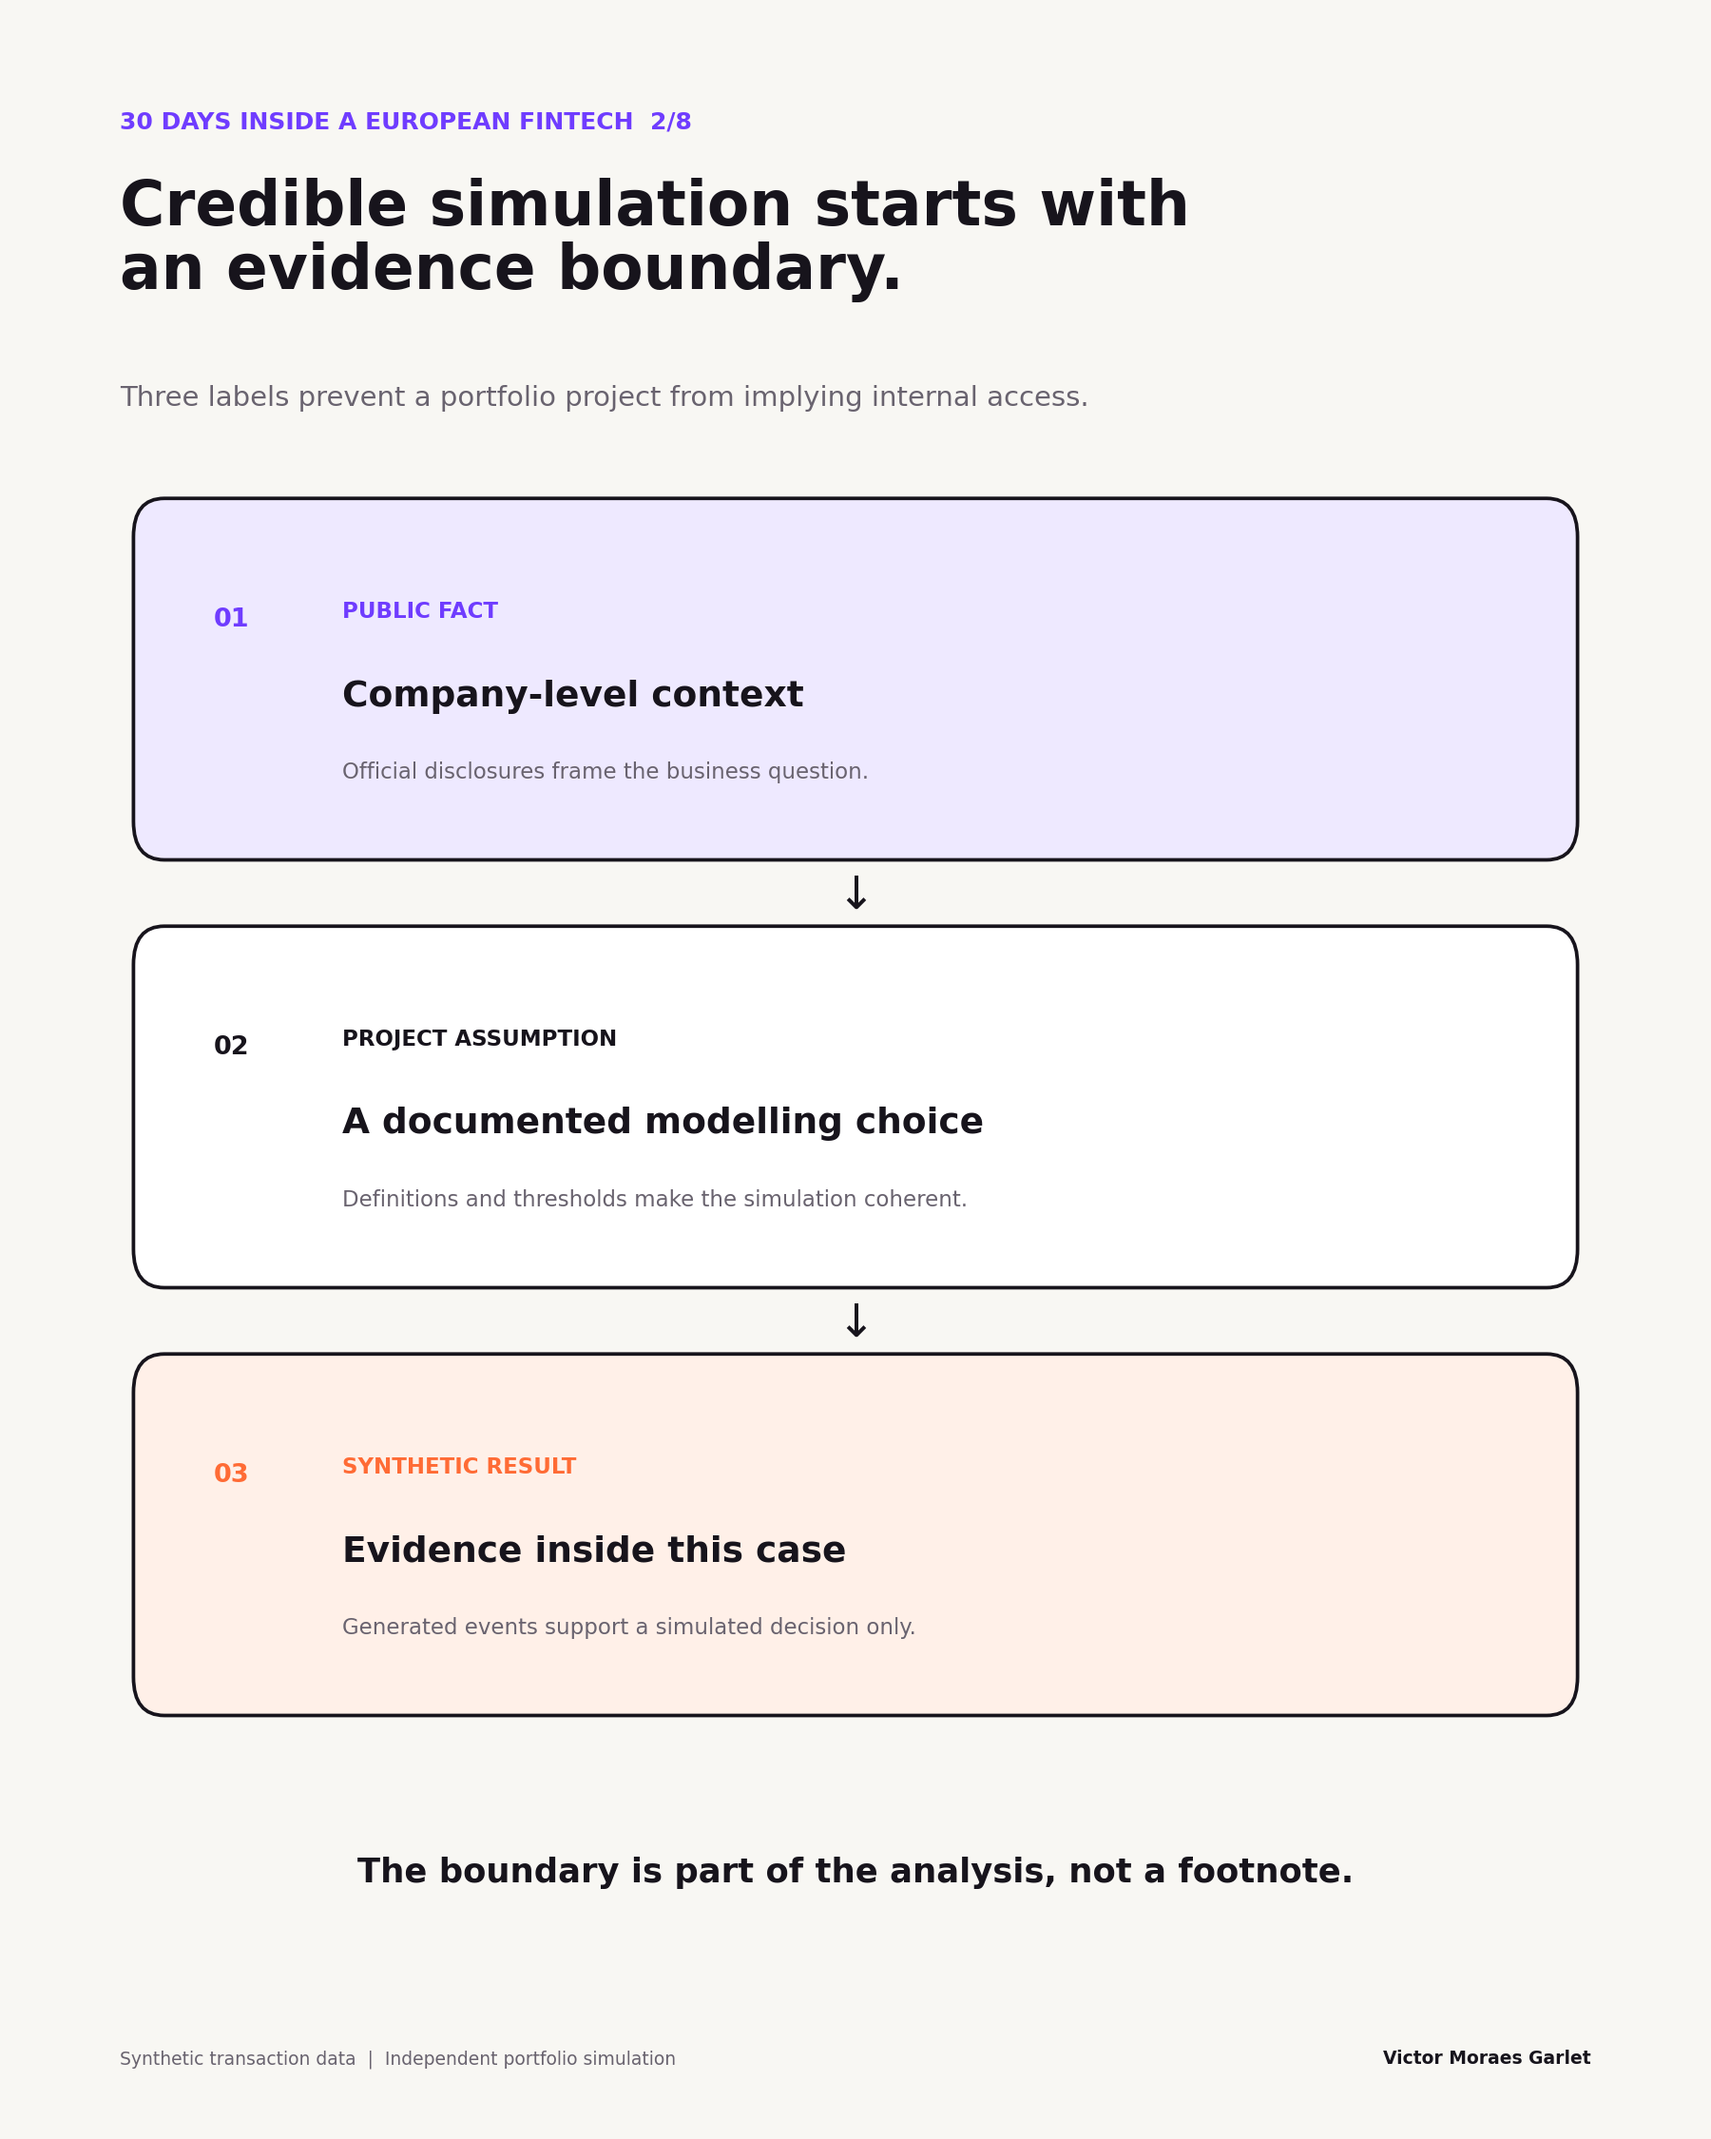
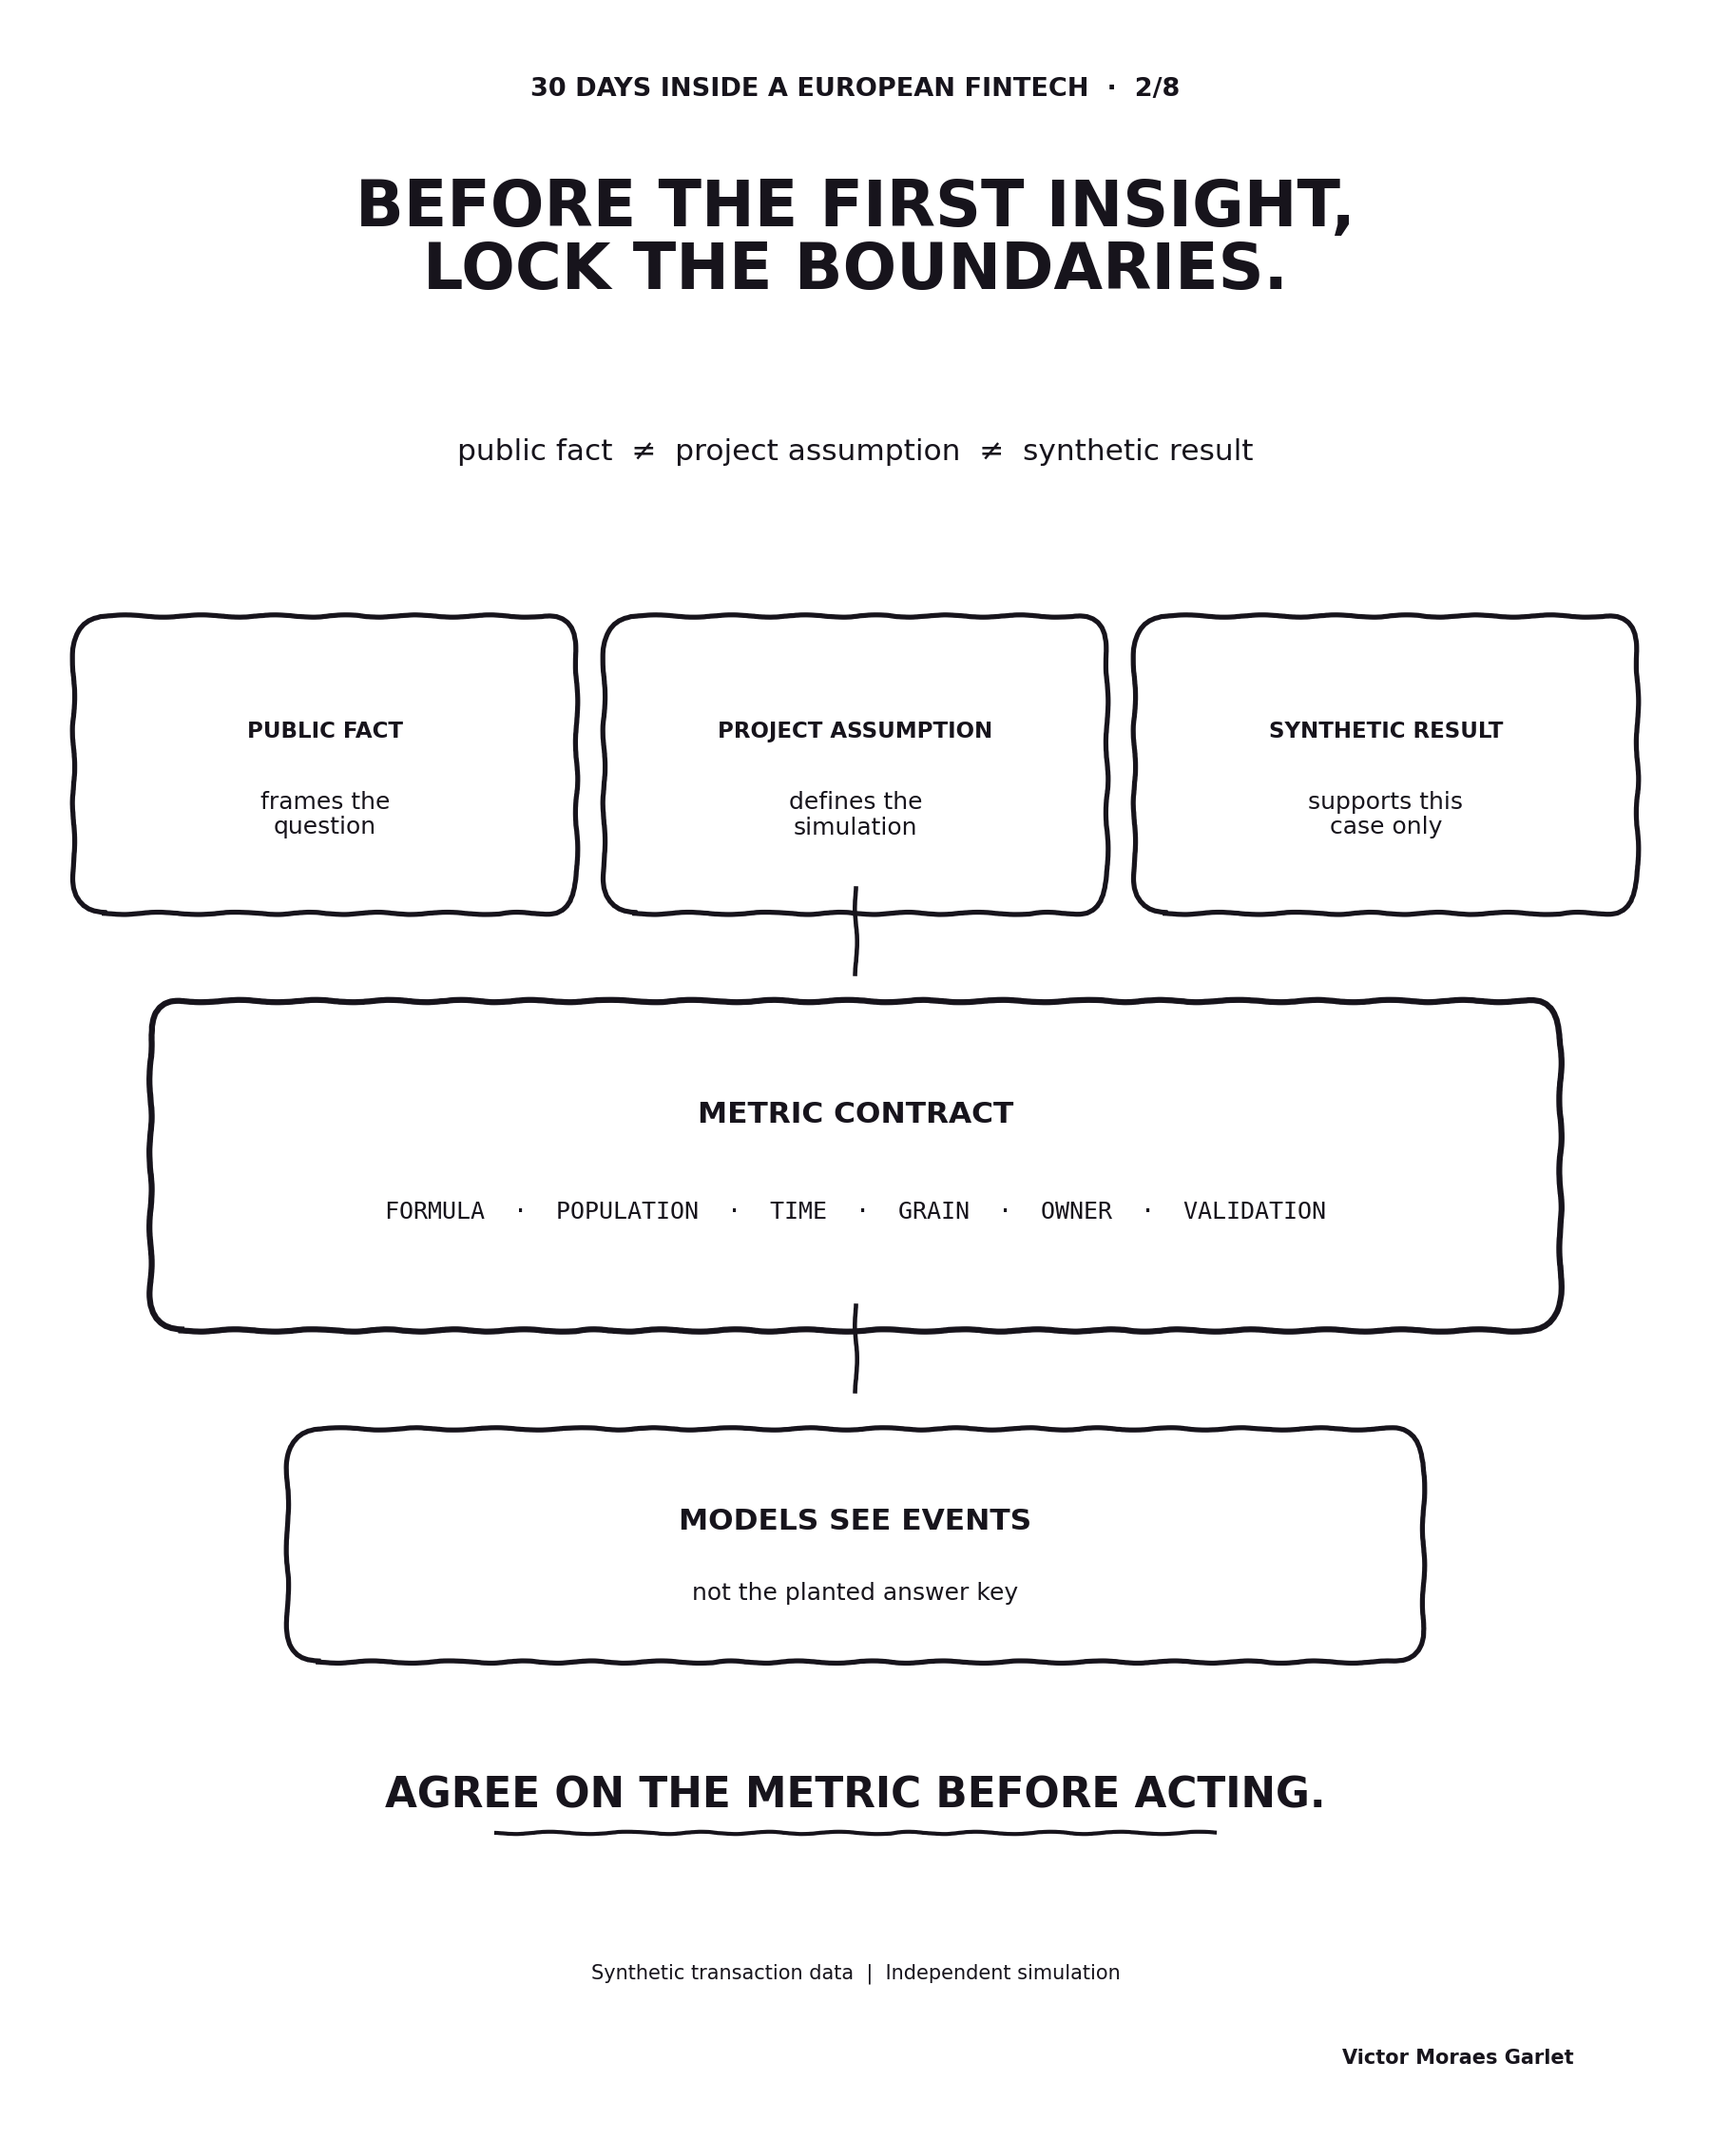
Approve and schedule episode 2

diff --git a/scripts/build_visuals.py b/scripts/build_visuals.py
@@ -134,26 +134,57 @@ def build_episode_01(connection):
 
 
 def build_episode_02():
-    fig, ax = base_figure(
-        2,
-        "Credible simulation starts with\nan evidence boundary.",
-        "Three labels prevent a portfolio project from implying internal access.",
-    )
-    items = [
-        ("PUBLIC FACT", "Company-level context", "Official disclosures frame the business question.", PURPLE_SOFT, PURPLE),
-        ("PROJECT ASSUMPTION", "A documented modelling choice", "Definitions and thresholds make the simulation coherent.", WHITE, INK),
-        ("SYNTHETIC RESULT", "Evidence inside this case", "Generated events support a simulated decision only.", ORANGE_SOFT, ORANGE),
+    fig = plt.figure(figsize=(12, 15), facecolor=WHITE)
+    ax = fig.add_axes((0, 0, 1, 1))
+    ax.set_xlim(0, 1)
+    ax.set_ylim(0, 1)
+    ax.axis("off")
+
+    def rough_card(x, y, width, height, linewidth=2.5):
+        patch = FancyBboxPatch(
+            (x, y),
+            width,
+            height,
+            boxstyle="round,pad=0.012,rounding_size=0.018",
+            linewidth=linewidth,
+            edgecolor=INK,
+            facecolor=WHITE,
+        )
+        patch.set_sketch_params(scale=1.2, length=90, randomness=2.5)
+        ax.add_patch(patch)
+
+    def rough_line(xs, ys, linewidth=2.2):
+        line, = ax.plot(xs, ys, color=INK, linewidth=linewidth)
+        line.set_sketch_params(scale=1.2, length=90, randomness=2.5)
+
+    fig.text(0.50, 0.955, "30 DAYS INSIDE A EUROPEAN FINTECH  ·  2/8", ha="center", color=INK, fontsize=13, fontweight="bold")
+    fig.text(0.50, 0.865, "BEFORE THE FIRST INSIGHT,\nLOCK THE BOUNDARIES.", ha="center", color=INK, fontsize=32, fontweight="bold", linespacing=1.0)
+    fig.text(0.50, 0.785, "public fact  ≠  project assumption  ≠  synthetic result", ha="center", color=INK, fontsize=15)
+
+    evidence = [
+        (0.055, "PUBLIC FACT", "frames the\nquestion"),
+        (0.365, "PROJECT ASSUMPTION", "defines the\nsimulation"),
+        (0.675, "SYNTHETIC RESULT", "supports this\ncase only"),
     ]
-    ys = [0.61, 0.41, 0.21]
-    for number, ((tag, heading, body, fill, accent), y) in enumerate(zip(items, ys), start=1):
-        card(ax, 0.09, y, 0.82, 0.145, fill)
-        ax.text(0.125, y + 0.097, f"0{number}", color=accent, fontsize=13, fontweight="bold")
-        ax.text(0.20, y + 0.101, tag, color=accent, fontsize=11, fontweight="bold")
-        ax.text(0.20, y + 0.06, heading, color=INK, fontsize=18, fontweight="bold")
-        ax.text(0.20, y + 0.026, body, color=MUTED, fontsize=11)
-        if number < 3:
-            ax.text(0.50, y - 0.035, "↓", color=INK, fontsize=23, ha="center")
-    ax.text(0.50, 0.12, "The boundary is part of the analysis, not a footnote.", ha="center", color=INK, fontsize=17, fontweight="bold")
+    for x, heading, body in evidence:
+        rough_card(x, 0.585, 0.27, 0.115)
+        ax.text(x + 0.135, 0.655, heading, ha="center", color=INK, fontsize=11, fontweight="bold")
+        ax.text(x + 0.135, 0.61, body, ha="center", color=INK, fontsize=12, linespacing=1.15)
+
+    rough_line([0.50, 0.50], [0.585, 0.545])
+    rough_card(0.10, 0.39, 0.80, 0.13, 3.0)
+    ax.text(0.50, 0.475, "METRIC CONTRACT", ha="center", color=INK, fontsize=15, fontweight="bold")
+    ax.text(0.50, 0.43, "FORMULA  ·  POPULATION  ·  TIME  ·  GRAIN  ·  OWNER  ·  VALIDATION", ha="center", color=INK, fontsize=12, family="monospace")
+
+    rough_line([0.50, 0.50], [0.39, 0.35])
+    rough_card(0.18, 0.235, 0.64, 0.085)
+    ax.text(0.50, 0.285, "MODELS SEE EVENTS", ha="center", color=INK, fontsize=15, fontweight="bold")
+    ax.text(0.50, 0.252, "not the planted answer key", ha="center", color=INK, fontsize=12)
+
+    ax.text(0.50, 0.155, "AGREE ON THE METRIC BEFORE ACTING.", ha="center", color=INK, fontsize=21, fontweight="bold")
+    rough_line([0.29, 0.71], [0.143, 0.143], 2.0)
+    fig.text(0.50, 0.075, "Synthetic transaction data  |  Independent simulation", ha="center", color=INK, fontsize=10)
+    fig.text(0.92, 0.035, "Victor Moraes Garlet", ha="right", color=INK, fontsize=10, fontweight="bold")
     save(fig, "episode_02_evidence_boundary.png")
 
 

diff --git a/tests/test_public_content.py b/tests/test_public_content.py
@@ -25,7 +25,7 @@ class PublicContentTestCase(unittest.TestCase):
             self.assertEqual(post.count(DISCLOSURE), 1)
             self.assertNotIn("—", post)
             self.assertGreaterEqual(len(post), 1700)
-            self.assertLessEqual(len(post), 2400)
+            self.assertLessEqual(len(post), 3000)
 
     def test_eight_visuals_use_the_linkedin_portrait_ratio(self):
         visuals = sorted(VISUALS_DIRECTORY.glob("episode_*.png"))
@@ -37,9 +37,13 @@ class PublicContentTestCase(unittest.TestCase):
 
     def test_editorial_calendar_tracks_release_status(self):
         calendar = (PROJECT_ROOT / "content" / "editorial_calendar.md").read_text(encoding="utf-8")
-        self.assertEqual(calendar.count("Hold for approval"), 7)
+        self.assertEqual(calendar.count("Hold for approval"), 6)
         self.assertIn(
             "| 1 | Tue, 29 Sep 2026 | Frame the take-rate decision | Metric tree | Scheduled for 08:00 Europe/Dublin |",
+            calendar,
+        )
+        self.assertIn(
+            "| 2 | Fri, 2 Oct 2026 | Establish the evidence boundary | Evidence layers | Scheduled for 08:00 Europe/Dublin |",
             calendar,
         )
 

diff --git a/content/posts/episode_02.md b/content/posts/episode_02.md
@@ -1,42 +1,60 @@
-# Episode 2: Build credible synthetic evidence
+# Episode 2: Lock the evidence and metric boundaries
 
-**Status:** Draft for approval  
+**Status:** Scheduled for Fri, 2 Oct 2026 at 08:00 Europe/Dublin
 **Visual:** `content/visuals/episode_02_evidence_boundary.png`
 
 ## Post copy
+
+I deliberately hid the planted failure from my own analytical models.
+
+Otherwise, a synthetic case study can become a decorated conclusion: generate the rows, find exactly what you put there, and call it an insight.
 
 **30 Days Inside a European Fintech [2/8]**
 
 I'm using Wise's public disclosures and synthetic data to simulate how a Senior Data Analyst could work through a fintech problem from question to decision.
 
-Using synthetic data creates a credibility problem of its own.
+Before investigating a 2.18 bps decline in collected take rate, I put two controls in place.
 
-If the analyst already knows the answer and simply writes rows that prove it, the project becomes a decorated conclusion.
+First, every material statement gets one of three evidence labels:
 
-I used three evidence labels to avoid that:
+• Public fact: official disclosures can frame the business question, but they cannot validate fictional customer behaviour.
 
-1. Public fact
+• Project assumption: thresholds, cost allocations and reporting windows are documented choices that a reviewer can challenge.
 
-Official company disclosures can frame the business model and the question. They cannot validate a fictional transaction-level finding.
+• Synthetic result: findings generated inside this dataset belong only to this case.
 
-2. Project assumption
+Second, I wrote a metric contract for collected take rate:
 
-Definitions such as the instant-transfer threshold, cost allocation and reporting window are documented choices. Someone reviewing the work should be able to challenge them.
+• Formula: collected fee revenue divided by completed transfer volume
 
-3. Synthetic result
+• Population: completed transfers only
 
-The findings come from generated events and belong only to this case.
+• Time rule: the month in which the transfer completed
 
-The prototype contains 10,000 transfer attempts across 20 corridors and 11 source tables. A fixed seed makes the output reproducible. Referential constraints keep customers, quotes, transfers, fees, settlements, providers and support contacts consistent.
+• Grain: one transfer
 
-I also kept the scenario configuration outside the public analytical layer while investigating. That prevented the dbt models from encoding the answer.
+• Owner: Finance Analytics in the fictional operating model
 
-Synthetic data is useful here because it can create known failure modes, then test whether the analytical controls detect them without being told where to look.
+• Validation: numerator and denominator must reconcile to the same transfer cohort
 
-For a public case study, the evidence boundary is part of the work. It should be visible before the first insight appears.
+The formula is simple. The boundaries are what allow Finance, Pricing and Operations to reproduce the number and disagree for a visible reason.
 
-Quick glossary  
-*Fixed seed = a setting that produces the same generated dataset on every run.  
-*Referential integrity = records connect to valid related records, such as a transfer belonging to an existing customer.
+The prototype then generates exactly 10,000 transfer attempts across 20 corridors and 11 related tables. The same configuration produces the same dataset on every run.
 
-This is an independent simulation inspired by Wise's public disclosures. I am not affiliated with Wise. All transaction-level data and project findings are synthetic; any company-level figures are sourced from public reports.
+If a fee loses its transfer, a settlement loses its provider, or the fee equation no longer closes, the build fails.
+
+The planted scenario configuration also stays outside the analytical layer. The dbt models can see the transactions, but not the answer key.
+
+The result remains synthetic. The process becomes inspectable and reproducible.
+
+At this point, I would leave pricing unchanged until the transfer population and reporting clock reconcile across Finance and Operations. That is the next test.
+
+Quick glossary
+
+*Collected take rate = collected fee revenue as a proportion of completed transfer volume.
+
+*Metric contract = the agreed formula, population, time rule, grain, owner and validation for a metric.
+
+*Fixed seed = a setting that produces the same generated dataset on every run.
+
+Disclosure: This is an independent simulation inspired by Wise's public disclosures. I am not affiliated with Wise. All transaction-level data and project findings are synthetic; any company-level figures are sourced from public reports.

diff --git a/content/editorial_calendar.md b/content/editorial_calendar.md
@@ -6,12 +6,12 @@ Publish twice per week, Tuesday and Friday at 08:00 Europe/Dublin.
 
 The technical project can be completed in one sprint. The public story benefits from four weeks because each post has time to circulate, collect discussion and lead naturally into the next decision.
 
-Episode 1 is scheduled. Episodes 2–8 remain on hold for review and approval.
+Episodes 1 and 2 are scheduled. Episodes 3–8 remain on hold for review and approval.
 
 | Episode | Date | Role in the series | Visual | Status |
 | --- | --- | --- | --- | --- |
 | 1 | Tue, 29 Sep 2026 | Frame the take-rate decision | Metric tree | Scheduled for 08:00 Europe/Dublin |
-| 2 | Fri, 2 Oct 2026 | Establish the evidence boundary | Evidence layers | Hold for approval |
+| 2 | Fri, 2 Oct 2026 | Establish the evidence boundary | Evidence layers | Scheduled for 08:00 Europe/Dublin |
 | 3 | Tue, 6 Oct 2026 | Reconcile Finance and Operations clocks | Reporting bridge | Hold for approval |
 | 4 | Fri, 9 Oct 2026 | Isolate the settlement hotspot | Exception-rate comparison | Hold for approval |
 | 5 | Tue, 13 Oct 2026 | Decompose the take-rate movement | Waterfall | Hold for approval |
